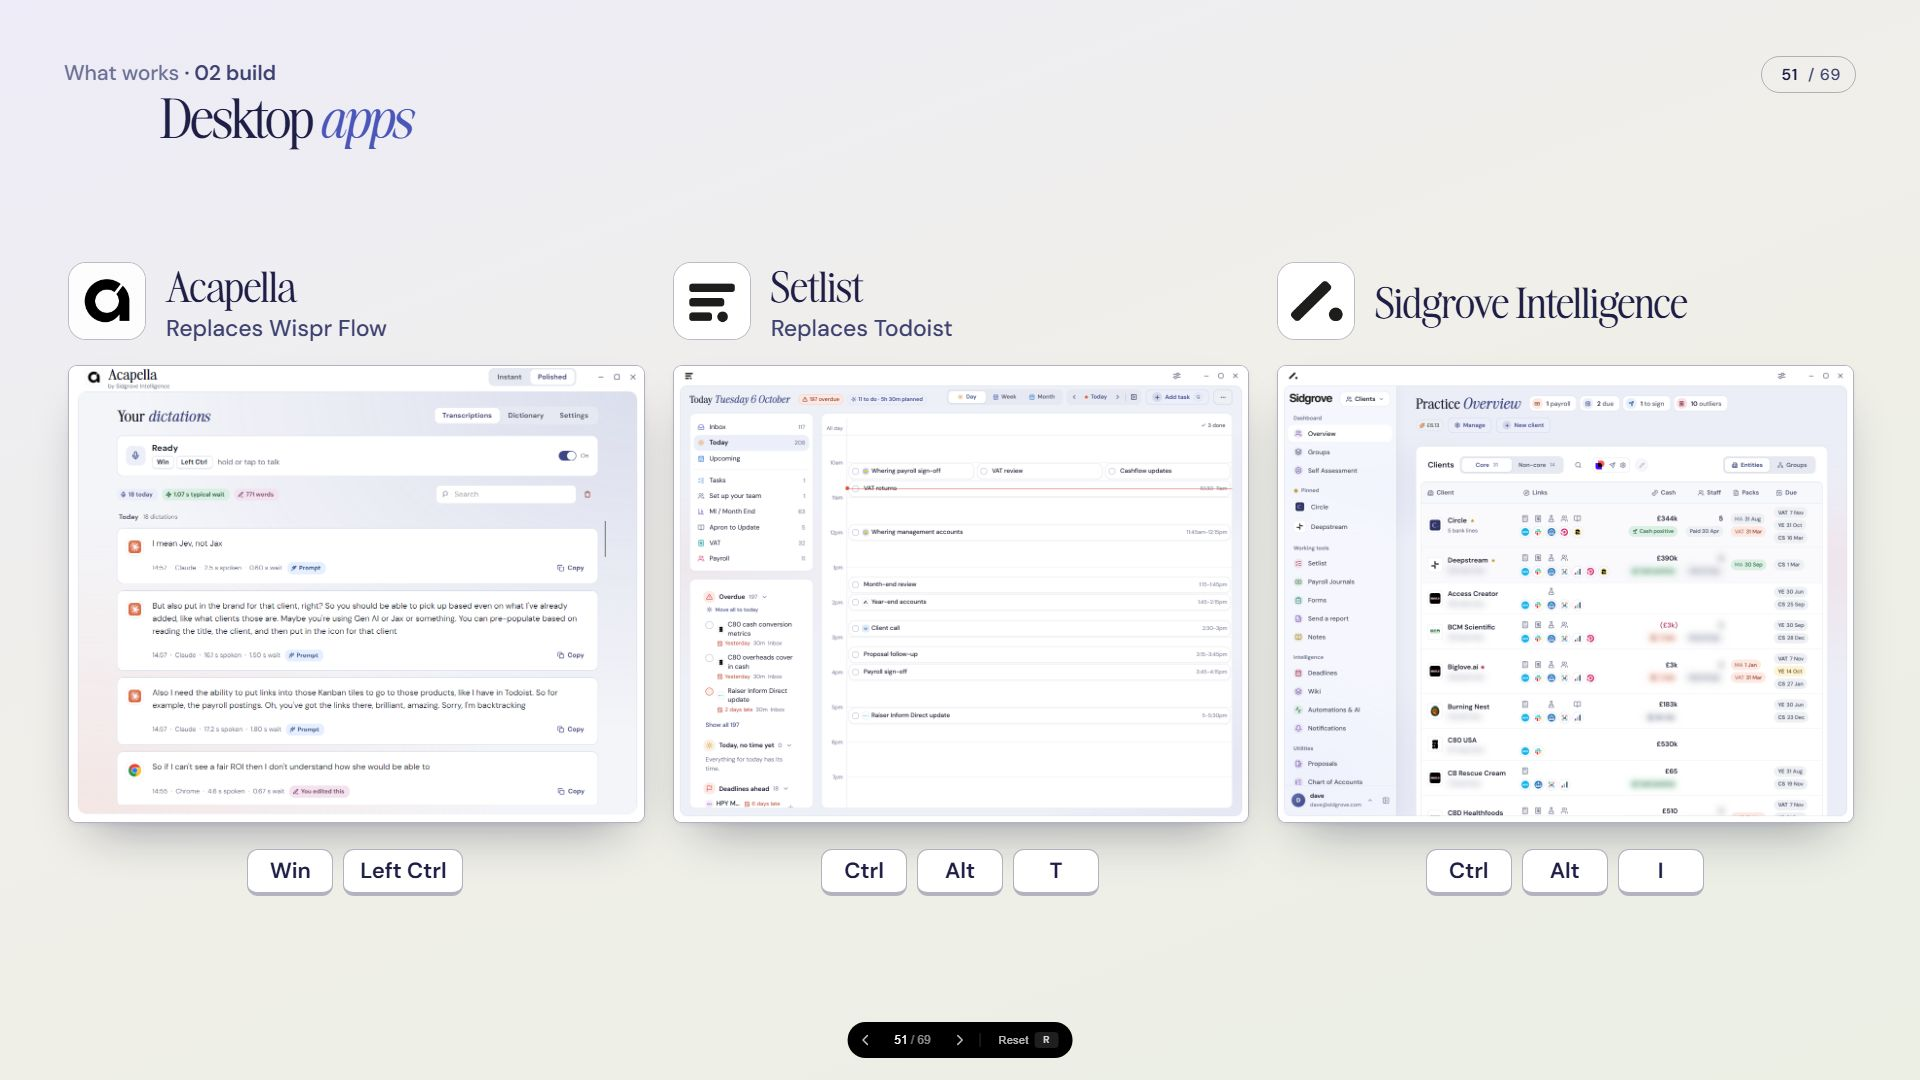
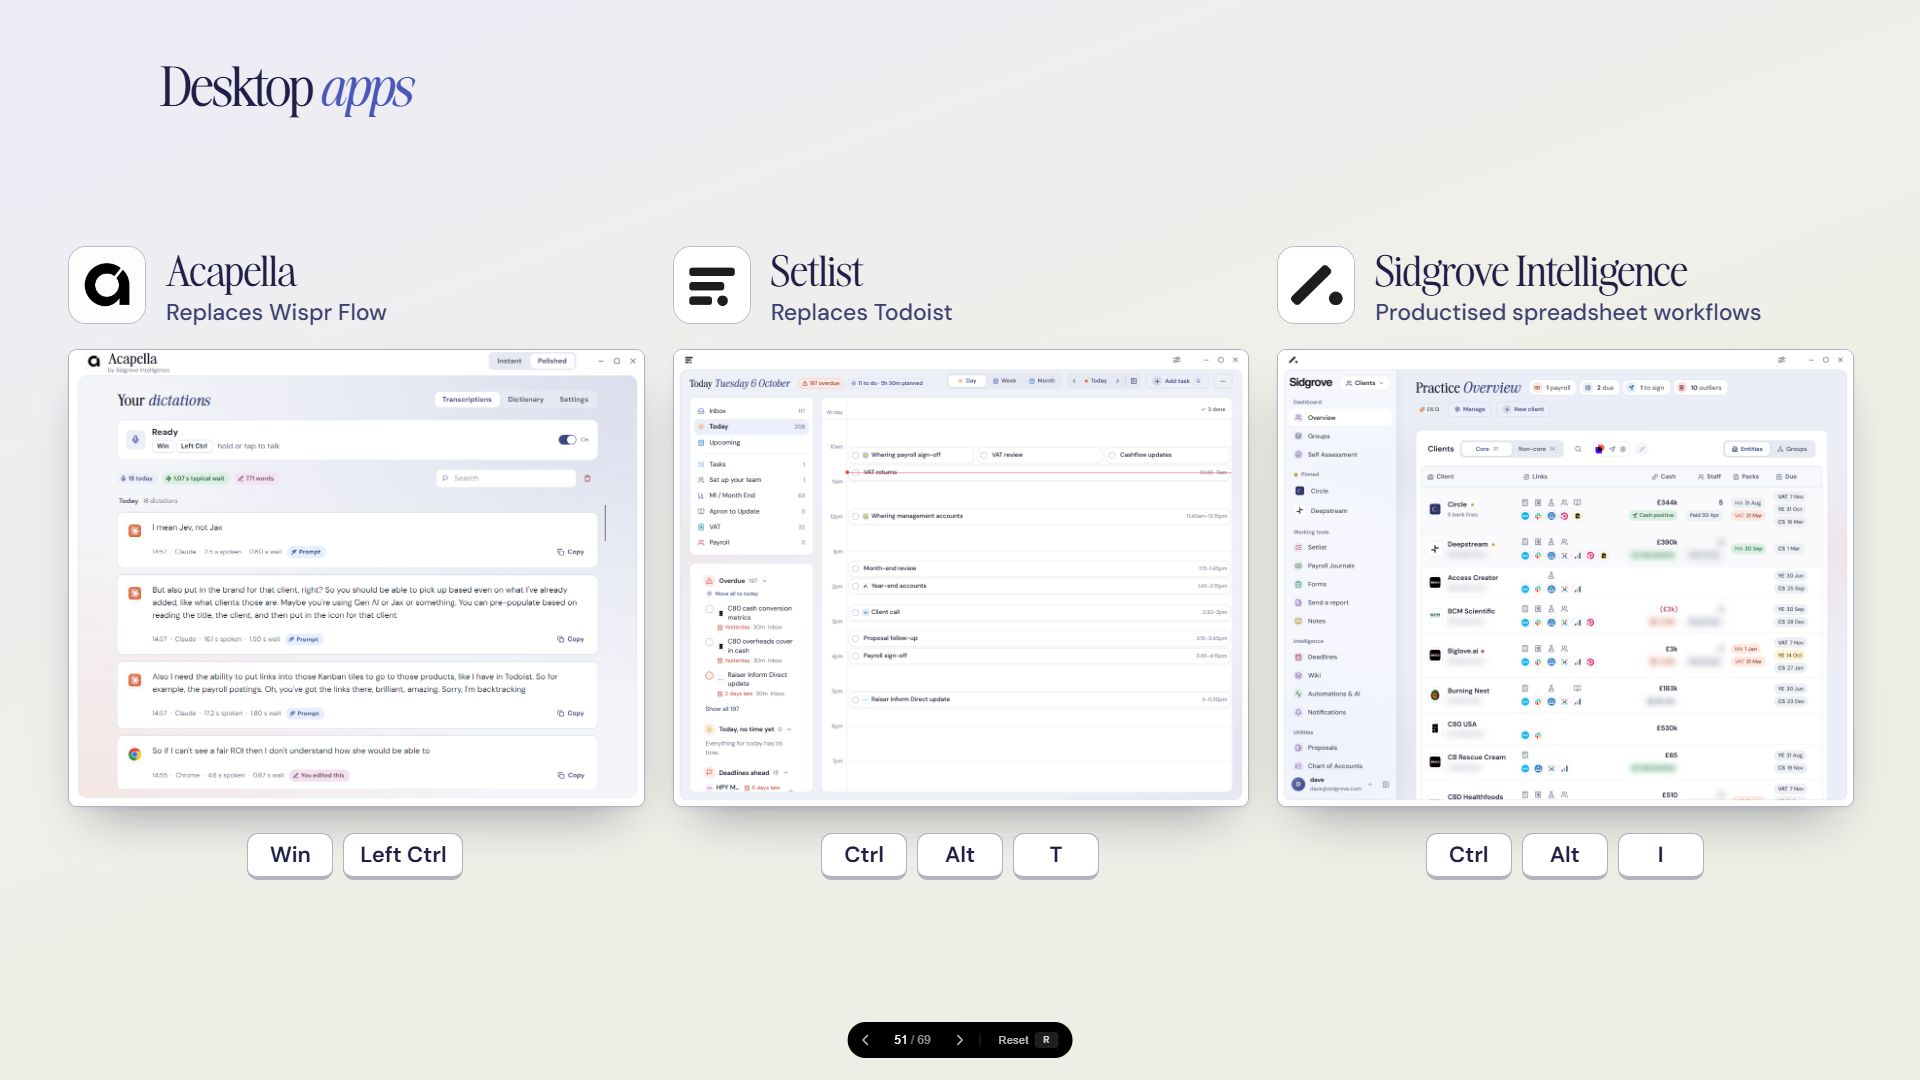
Auto Bank Wreck: client deadlines and the new digest card, month end and year-end working papers slides, groups with intercompany, the form on a desktop, bigger screens with smaller Slack cards, no section tags on screen slides or page numbers

diff --git a/presentations/auto-bank-wreck/index.html b/presentations/auto-bank-wreck/index.html
@@ -2698,23 +2698,12 @@ deck-stage { background: #0a0a0a; }
 
       <div class="feat-head"><h2 class="display">Deadlines &amp; <em>HMRC</em></h2></div>
       <div class="fill center-y">
-        <div class="pair">
-          <figure class="shot window">
-            <img src="images/slides/41a-app-showcase/deadlines-oct06.jpg" alt="Practice deadlines: what is next, then every client's year-end accounts, confirmation statements and VAT">
-            <figcaption></figcaption>
-          </figure>
-          <div class="slack-inset side" aria-hidden="true">
+        <div class="pair trio">
+          <figure class="shot window"><img src="images/slides/41a-app-showcase/deadlines-practice-tall-oct06.jpg" alt="Practice deadlines: what is next, then every client's year-end accounts, confirmation statements and VAT"><figcaption></figcaption></figure>
+          <figure class="shot window"><img src="images/slides/41a-app-showcase/deadlines-client-tall-oct06.jpg" alt="Circle's own deadlines page: what is next, the year ahead and each month's filings"><figcaption></figcaption></figure>
+          <div class="slack-inset side digest" aria-hidden="true">
             <div class="si-bar"><img src="images/shared/site/slack.svg" alt=""><span>#_filing_deadlines</span></div>
-            <div class="si-msg">
-              <span class="si-av">S</span>
-              <div class="si-body">
-                <p class="si-name">Sidgrove Intelligence <span class="sk-app">APP</span> <span class="si-time">8:00</span></p>
-                <p class="sk-header">🗓 Filing deadlines</p>
-                <p class="sk-context">📅 Tuesday 6 October &nbsp;·&nbsp; nothing overdue</p>
-                <img class="sk-image" src="images/shared/slack/deadlines-board-oct06.png" alt="">
-                <div class="sk-actions"><span class="sk-btn">↗ Open Inform Direct</span></div>
-              </div>
-            </div>
+            <img class="sk-image" src="images/shared/slack/deadlines-digest-oct06.png" alt="">
           </div>
         </div>
       </div>
@@ -2908,13 +2897,15 @@ deck-stage { background: #0a0a0a; }
     <div class="frame" style="--pad-y: 56px;">
       <div class="topbar"><p class="section-tag">What works <em>· 02 build</em></p><span class="page-chip"></span></div>
 
-      <div class="feat-head"><h2 class="display">Prepayments &amp; <em>accruals</em></h2></div>
+      <div class="feat-head"><h2 class="display">Month <em>end</em></h2></div>
       <div class="fill center-y">
-        <div class="shot-wrap">
-          <figure class="shot window">
-            <img src="images/slides/41a-app-showcase/accruals-oct06.jpg" alt="Circle prepayments and accruals schedule with supplier logos, synced to Xero">
-            <figcaption></figcaption>
-          </figure>
+        <div class="mosaic">
+          <figure class="shot window"><img src="images/slides/41a-app-showcase/accruals-oct06.jpg" alt="Circle prepayments and accruals schedule with supplier logos, synced to Xero"><figcaption></figcaption></figure>
+          <div class="mosaic-col">
+            <figure class="shot window"><img src="images/slides/41a-app-showcase/payroll-realloc-oct06.jpg" alt="Payroll reallocations by department, posted to Xero"><figcaption></figcaption></figure>
+            <figure class="shot window"><img src="images/slides/41a-app-showcase/direct-costs-oct06.jpg" alt="Direct costs reallocation journal"><figcaption></figcaption></figure>
+            <figure class="shot window"><img src="images/slides/41a-app-showcase/corp-tax-oct06.jpg" alt="Corporation tax accrual, month by month"><figcaption></figcaption></figure>
+          </div>
         </div>
       </div>
 
@@ -2996,17 +2987,15 @@ deck-stage { background: #0a0a0a; }
     </div>
   </section>
 
-  <section class="slide" data-label="Group structure">
+  <section class="slide" data-label="Year-end working papers">
     <div class="frame" style="--pad-y: 56px;">
       <div class="topbar"><p class="section-tag">What works <em>· 02 build</em></p><span class="page-chip"></span></div>
 
-      <div class="feat-head"><h2 class="display">Group <em>structure</em></h2></div>
+      <div class="feat-head"><h2 class="display">Year-end <em>working papers</em></h2></div>
       <div class="fill center-y">
-        <div class="shot-wrap">
-          <figure class="shot window">
-            <img src="images/slides/41a-app-showcase/st-biglove.jpg" alt="Group structure: eight companies under one owner, with revenue and cash. Names blurred, figures changed">
-            <figcaption></figcaption>
-          </figure>
+        <div class="duo">
+        <figure class="shot window"><img src="images/slides/41a-app-showcase/ye-balance-sheet-oct06.jpg" alt="Year-end balance sheet review: every account by month, flagged or ticked"><figcaption></figcaption></figure>
+        <figure class="shot window"><img src="images/slides/41a-app-showcase/ye-pl-review-oct06.jpg" alt="Year-end P&amp;L review: each account reviewed, queried or passed"><figcaption></figcaption></figure>
         </div>
       </div>
 
@@ -3014,15 +3003,15 @@ deck-stage { background: #0a0a0a; }
     </div>
   </section>
 
-  <section class="slide" data-label="Intercompany">
+    <section class="slide" data-label="Groups &amp; intercompany">
     <div class="frame" style="--pad-y: 56px;">
       <div class="topbar"><p class="section-tag">What works <em>· 02 build</em></p><span class="page-chip"></span></div>
 
-      <div class="feat-head"><h2 class="display">Inter<em>company</em></h2></div>
+      <div class="feat-head"><h2 class="display">Groups &amp; <em>intercompany</em></h2></div>
       <div class="fill center-y">
-        <div class="duo">
-        <figure class="shot window"><img src="images/slides/41a-app-showcase/ic-matrix.jpg" alt="Intercompany matrix for an eight-company group: each pair balanced or with its difference. Names blurred, figures changed"><figcaption></figcaption></figure>
-        <figure class="shot window"><img src="images/slides/41a-app-showcase/ic-recon.jpg" alt="Intercompany reconciliation of one pair: both ledgers side by side, month by month. Names blurred, figures changed"><figcaption></figcaption></figure>
+        <div class="duo fit">
+          <figure class="shot window"><img src="images/slides/41a-app-showcase/st-biglove.jpg" alt="Group structure: eight companies under one owner, with revenue and cash. Names blurred, figures changed"><figcaption></figcaption></figure>
+          <figure class="shot window"><img src="images/slides/41a-app-showcase/ic-matrix.jpg" alt="Intercompany matrix for an eight-company group: each pair balanced or with its difference. Names blurred, figures changed"><figcaption></figcaption></figure>
         </div>
       </div>
 
@@ -3035,12 +3024,10 @@ deck-stage { background: #0a0a0a; }
       <div class="topbar"><p class="section-tag">What works <em>· 02 build</em></p><span class="page-chip"></span></div>
 
       <div class="feat-head"><h2 class="display">Client <em>forms</em></h2></div>
-      <div class="fill form-duo">
-        <div class="phone"><img src="images/slides/41a-app-showcase/form-phone.jpg" alt="Circle's new starter form on a phone: welcome, what to have to hand, personal details"></div>
-        <div class="form-side">
-          <p class="form-link"><span class="fl-lock" aria-hidden="true"></span>intelligence.sidgrove.com/f/circle/new-starter-form</p>
-
-          <div class="slack-inset form-slack" aria-hidden="true">
+      <div class="fill center-y">
+        <div class="pair">
+          <figure class="shot window"><img src="images/slides/41a-app-showcase/form-desktop-oct06.jpg" alt="Circle's new starter form: welcome, what to have to hand, personal details"><figcaption>intelligence.sidgrove.com/f/circle/new-starter-form</figcaption></figure>
+          <div class="slack-inset side" aria-hidden="true">
             <div class="si-bar"><img src="images/shared/site/slack.svg" alt=""><span>#circle_payroll</span></div>
             <div class="si-msg">
               <span class="si-av">S</span>
@@ -3115,7 +3102,7 @@ deck-stage { background: #0a0a0a; }
           <div class="dapp">
             <div class="dapp-head">
               <img class="dapp-mark" src="images/slides/41c-desktop-apps/intelligence-icon.png" alt="">
-              <div class="dapp-id"><p class="dapp-name">Sidgrove Intelligence</p></div>
+              <div class="dapp-id"><p class="dapp-name">Sidgrove Intelligence</p><p class="dapp-was">Productised spreadsheet workflows</p></div>
             </div>
             <img class="dapp-win" src="images/slides/41c-desktop-apps/intelligence.png" alt="The Sidgrove Intelligence window, open on the practice overview: every client with cash, staff, packs and what is due">
             <p class="dapp-keys"><kbd>Ctrl</kbd><kbd>Alt</kbd><kbd>I</kbd></p>
@@ -3867,7 +3854,7 @@ deck-stage { background: #0a0a0a; }
   {"say":["Sidgrove Intelligence: the app that sits between my clients and the work I do. Every line of it was written with Claude Code. Solid surfaces, dense where it needs to be; it is a product, not a demo.","Think of it as an orchestration layer: Xero, the sheets, payroll and Slack, with one way in and one way out. And the future is embedding something like this directly into the ledger."]},
   {"say":["Hundreds of features, and counting. One app. It sits between me and my clients, with Slack alongside: one way in and one way out for the whole firm, not fifteen apps stitched together.","And much more. It has become the central app between my clients and the work, with Slack alongside for live comms. The GenAI is in how it was built, not in what it posts."]},
   {"say":["The practice overview: every client, their cash, what is due and what is late. And one click into any client: cash, what needs doing, and the month-end checklist."]},
-  {"say":["Deadlines and alerts, integrated with the government platforms, so nothing depends on someone remembering."]},
+  {"say":["Deadlines. The practice view on the left: every client's year-end accounts, confirmation statements and VAT. The client's own view in the middle. And every morning at eight the same thing lands in Slack."]},
   {"say":["Task management, built in: every project, the day planned, and the filing deadlines sitting alongside the work."]},
   {"say":["Fifty automations running across the practice, every run tracked. When one fails, it says so."]},
   {"say":["Daily cashflow, pulled over the bank and ledger APIs every morning. This is the demo client, Circle; the real ones look the same.","And the weekly cashflow report lands in Slack automatically: balance, net, spend, income, top payments. Nobody has to open the app."]},
@@ -3875,11 +3862,11 @@ deck-stage { background: #0a0a0a; }
   {"say":["Forecasting: actuals roll straight into a 12-month forecast, line by line, with its own rules. This used to be a spreadsheet."]},
   {"say":["Management accounts hosted in the app, with notifications when a pack is ready and when it has been read."]},
   {"say":["Bookkeeping workflow and comms: what is outstanding, who is waiting on whom, and the messages to the client in one place."]},
-  {"say":["Month end, one screen per posting. Seven of them: accruals and prepayments, deferred and accrued revenue, payroll reallocations, direct cost reallocations, corporation tax, R&D credits, loan notes.","Each screen works the posting out from the ledger and waits for me. The model wrote the screens; the screens do not use the model."]},
+  {"say":["Month end. Prepayments and accruals on the left, synced to Xero. And the other month-end processes run the same way: payroll reallocations, direct costs, the corporation tax accrual, each one a schedule that posts its own journal."]},
   {"say":["Payroll reviews with a client review workflow: I review, the client signs off, the trail is kept."]},
   {"say":["VAT reviews with the same client review workflow."]},
-  {"say":["Groups: the structure built from Companies House, who owns what and how each company is doing. Names blurred, figures changed."]},
-  {"say":["Intercompany: the matrix of every pair in the group, and any pair opened up side by side, both ledgers, month by month, so you can see where it went out."]},
+  {"say":["Year-end working papers, live from Xero: the balance sheet and the P&L account by account, each one ticked, flagged or queried, through to the tax computation."]},
+  {"say":["Groups: the structure is built from Companies House, who owns what and how each company is doing. And intercompany: the matrix of every pair in the group, balanced or with its difference. Names blurred, figures changed."]},
   {"say":["Client forms: a readable link the client opens on their phone, five minutes, and the practice hears in Slack the moment it comes back. The answers never go into Slack."]},
   {"say":["Proposals, written and sent from the same app: the situation, the services, the fees, and the client accepts online."]},
   {"say":["And it is not only in the browser. Three desktop apps, each one hotkey away. Acapella is my own dictation app: hold a key, speak, and it types into whatever is open; it replaced Wispr Flow. Setlist is my task manager; it replaced Todoist. And Sidgrove Intelligence itself, in its own window."]},
@@ -4833,6 +4820,25 @@ p.perm-sub { font-size: 20px; } .perm-row .ck { font-size: 20px; } .perm-actions
 .slide .slack-inset.side .si-av { width: 36px; height: 36px; font-size: 16px; }
 .slide .slack-inset.side .si-thread { margin-left: 58px; }
 .slide .slack-inset.side .sk-banner, .slide .slack-inset.side .sk-image { border-radius: 8px; border: 1px solid rgba(29,28,29,0.13); }
+/* ── Screen slides, round three (06/10): the screen is the slide. No section
+      tag on them and no page numbers anywhere (those were for Dave, and the
+      notes window still counts); the Slack card is the small partner. ── */
+.page-chip { display: none; }
+.slide:has(.feat-head) .topbar { display: none; }
+.feat-head ~ .fill .shot img { max-height: 830px; }
+.fill .duo .shot img { height: 830px; }
+.feat-head ~ .fill .pair .shot img { height: 824px; }
+.slide .pair .slack-inset.side { zoom: 0.74; margin-left: -22px; }
+/* Two screens and the card: the two share what one screen had. */
+.pair.trio .shot + .shot { margin-left: 18px; }
+.slide .pair .slack-inset.digest .sk-image { border: 0; border-radius: 0; display: block; width: 100%; }
+/* One big screen and a column of three small ones, the same height. */
+.mosaic { display: grid; grid-template-columns: 1301px 375px; gap: 20px; align-items: stretch; width: calc(100% + 96px); }
+.feat-head ~ .fill .mosaic .shot img { width: 100%; height: auto; max-height: none; }
+.mosaic-col { display: flex; flex-direction: column; justify-content: space-between; }
+/* Two screens of different shapes, each whole and the same height. */
+.fill .duo.fit { grid-template-columns: 1.585fr 1fr; align-items: center; width: calc(100% + 96px); }
+.fill .duo.fit .shot img { height: auto; max-height: none; object-fit: contain; }
 /* ══ Two looks, one deck ═══════════════════════════════════════════
    <html data-screen="standard"> is everything above: laptop, good monitor.
    <html data-screen="venue"> is the block below: a big, bright LCD in a lit
